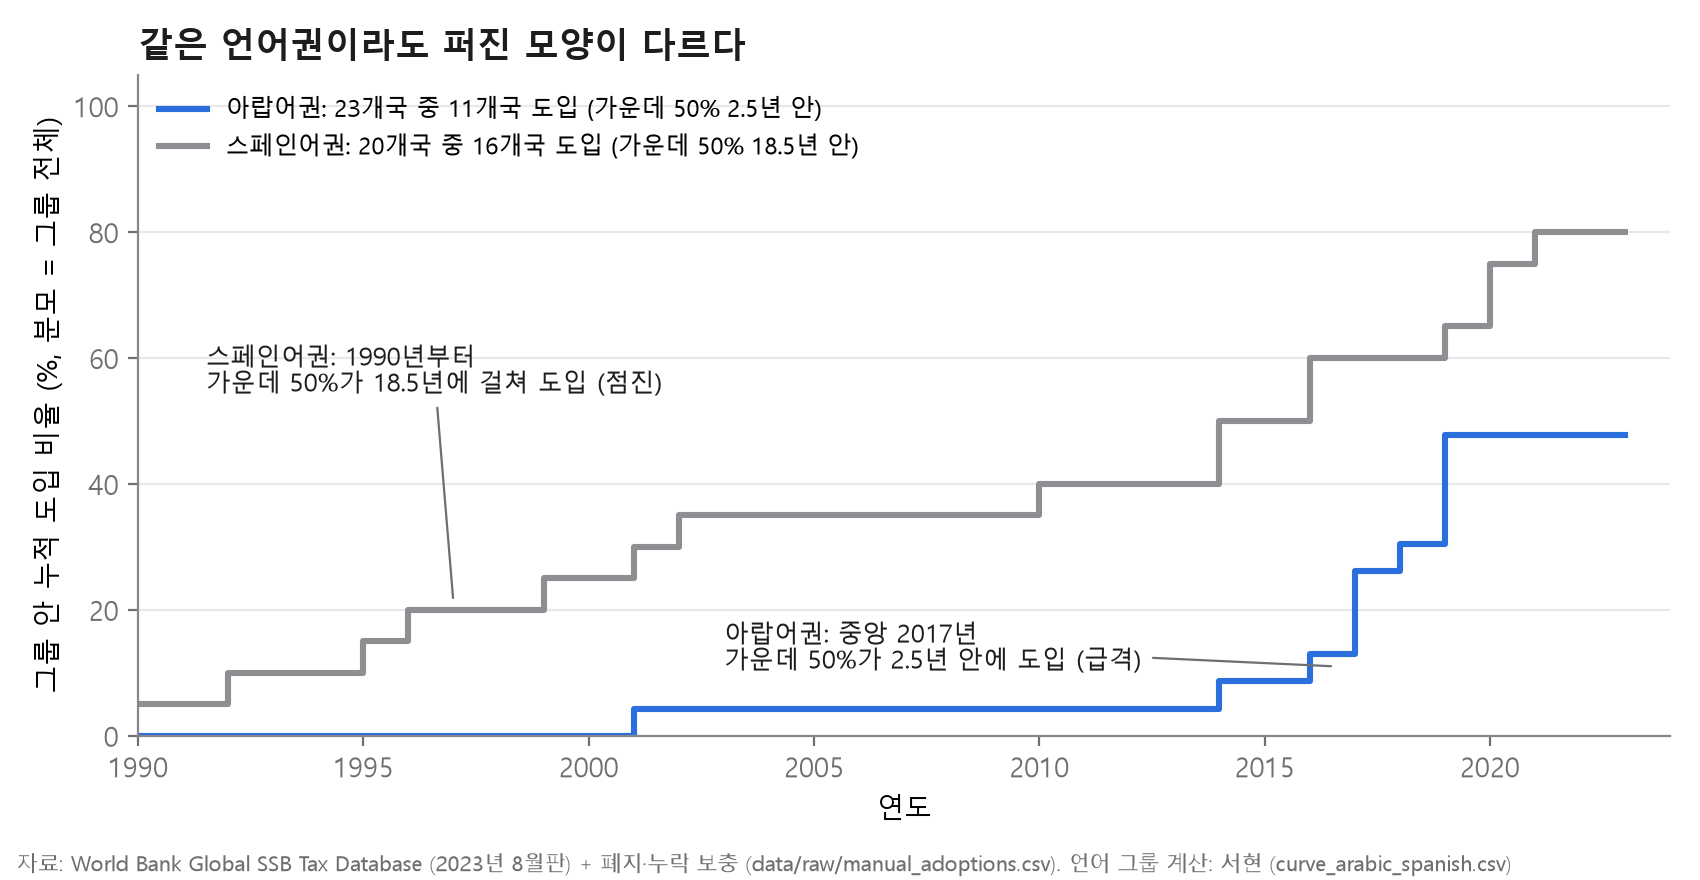
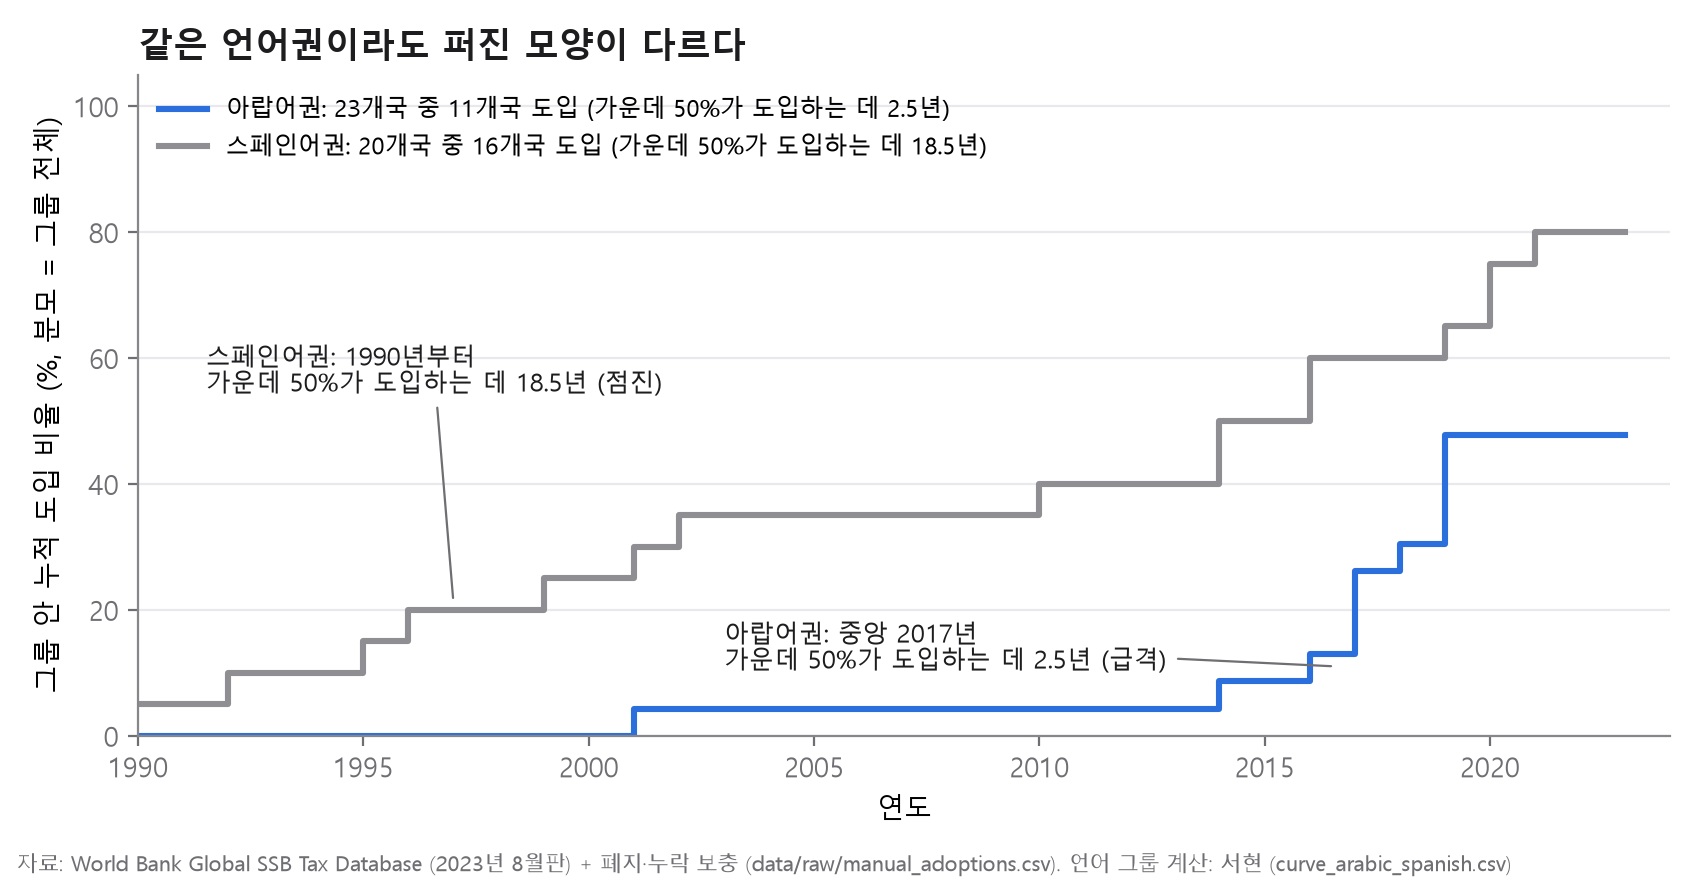
3단계 그림 손봄: WHO 권고 글자 위치, 그룹별 곡선 표현 통일
- 전체 확산 곡선: 'WHO 권고 2016년 10월'을 두 줄로 WHO 선 오른쪽에 → '114개국'・멕시코 선과 안 겹침
- 그룹별 확산 곡선: 범례・설명 둘 다 '가운데 50%가 도입하는 데 N년'으로 통일 (income.md도)

Changed region(s): [[0.4365, 0.092, 0.5924, 0.1841], [0.2182, 0.3989, 0.3429, 0.4602], [0.53, 0.7364, 0.6859, 0.767]]

diff --git a/layers/income/curves_maps.py b/layers/income/curves_maps.py
@@ -57,7 +57,7 @@ ax.step(yrs, cum, where="post", color=INK, lw=2)
 ax.axvline(mex, color=ACCENT, lw=1, ls="--")
 ax.text(mex - 0.3, 98, f"멕시코 {mex}년", ha="right", va="top", color=ACCENT, fontsize=9)
 ax.axvline(2016.75, color=ACCENT, lw=1, ls="--")
-ax.text(2016.95, 118, "WHO 권고 2016년 10월", ha="left", va="top", color=ACCENT, fontsize=9)
+ax.text(2016.95, 118, "WHO 권고\n2016년 10월", ha="left", va="top", color=ACCENT, fontsize=9)
 ax.text(2019.7, 30, f"← 2017~2019년\n    3년 동안 {n1719}개국", ha="left", color=INK, fontsize=9.5)
 ax.annotate(f"{cum[-1]}개국", (2023, cum[-1]), xytext=(5, -4), textcoords="offset points", ha="left", va="center", color=INK, fontsize=9.5)
 ax.set_title(f"설탕세 확산 곡선: 2017~2019년 3년 동안 {n1719}개국이 도입", loc="left", fontsize=12.5, fontweight="bold", color=INK)
@@ -82,12 +82,12 @@ STYLE = {"Arabic": ACCENT, "Spanish": "#8e8e93"}
 for g, col in STYLE.items():
     s, c = summ.loc[g], cur[cur.group == g]
     ax.step(c.year, c.cum_pct, where="post", color=col, lw=2.2,
-            label=f"{s.label}: {s.members}개국 중 {s.adopters_by_2023}개국 도입 (가운데 50% {s.iqr_years:g}년 안)")
+            label=f"{s.label}: {s.members}개국 중 {s.adopters_by_2023}개국 도입 (가운데 50%가 도입하는 데 {s.iqr_years:g}년)")
 a, s = summ.loc["Arabic"], summ.loc["Spanish"]
-ax.annotate(f"{a.label}: 중앙 {a.median_year:.0f}년\n가운데 50%가 {a.iqr_years:g}년 안에 도입 (급격)",
+ax.annotate(f"{a.label}: 중앙 {a.median_year:.0f}년\n가운데 50%가 도입하는 데 {a.iqr_years:g}년 (급격)",
             (2016.6, 11), xytext=(2003, 14), color=INK, fontsize=9, va="center",
             arrowprops=dict(arrowstyle="-", color=MUTED, lw=0.8))
-ax.annotate(f"{s.label}: {s.first_year}년부터\n가운데 50%가 {s.iqr_years:g}년에 걸쳐 도입 (점진)",
+ax.annotate(f"{s.label}: {s.first_year}년부터\n가운데 50%가 도입하는 데 {s.iqr_years:g}년 (점진)",
             (1997, 21), xytext=(1991.5, 58), color=INK, fontsize=9, va="center",
             arrowprops=dict(arrowstyle="-", color=MUTED, lw=0.8))
 ax.set_title("같은 언어권이라도 퍼진 모양이 다르다", loc="left", fontsize=12.5, fontweight="bold", color=INK)

diff --git a/docs/layers/income.md b/docs/layers/income.md
@@ -188,7 +188,7 @@ python layers/income/exclude46.py         # 검증 대상 나라를 뺀 1단계 
 | 그림 | 내용 | 숫자 |
 |---|---|---|
 | `stage3_전체_확산곡선.png` | 1990~2023년 도입 114개국 누적 수. 멕시코 2014년, WHO 권고 2016년 10월 표시, 2017~2019년 띠 | 2014년까지 56개국, 2017~2019년 3년 동안 37개국, 2023년 114개국 (1990년 전 도입 7개국 제외) |
-| `stage3_그룹별_확산곡선.png` | 아랍어권 vs 스페인어권 그룹 안 누적 도입 비율 (분모 = 그룹 전체, 미도입 포함) | 아랍어권 23개국 중 11개국, 가운데 50%가 2.5년 안 (급격) / 스페인어권 20개국 중 16개국, 가운데 50%가 18.5년에 걸침 (점진) |
+| `stage3_그룹별_확산곡선.png` | 아랍어권 vs 스페인어권 그룹 안 누적 도입 비율 (분모 = 그룹 전체, 미도입 포함) | 아랍어권 23개국 중 11개국, 가운데 50%가 도입하는 데 2.5년 (급격) / 스페인어권 20개국 중 16개국, 가운데 50%가 도입하는 데 18.5년 (점진) |
 | `stage3_도입지도_스냅샷.png` | 2014・2017・2019・2023년까지 도입한 나라 지도 4장. 점 = 나라(위도・경도), 선 = 육상 국경, 둘 다 도입한 국경 쌍은 진한 선 (시간 네트워크) | 1990년 이후 도입 56 → 75 → 101 → 114개국 (+1990년 전 7개국) |
 
 - 지도는 지도 라이브러리 없이 `countries.json` 위도・경도・국경으로 점 지도로 그림 (`requirements.txt` 안 바꿈)
